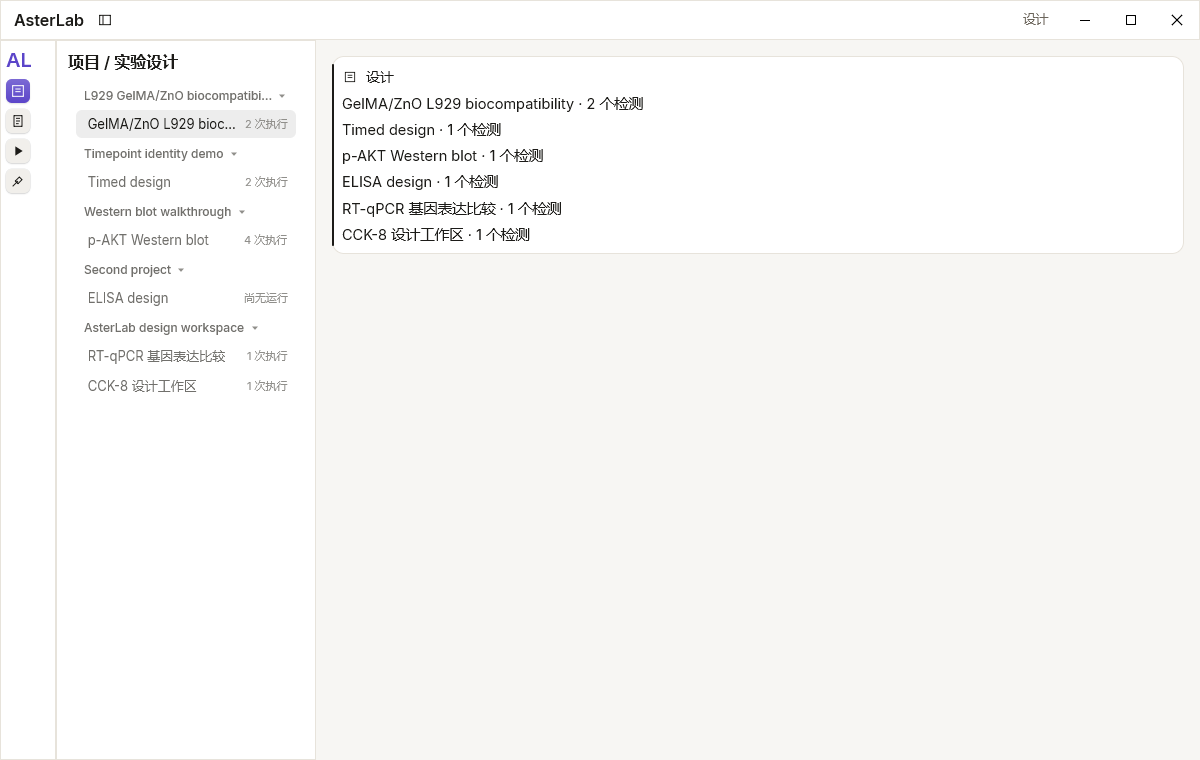
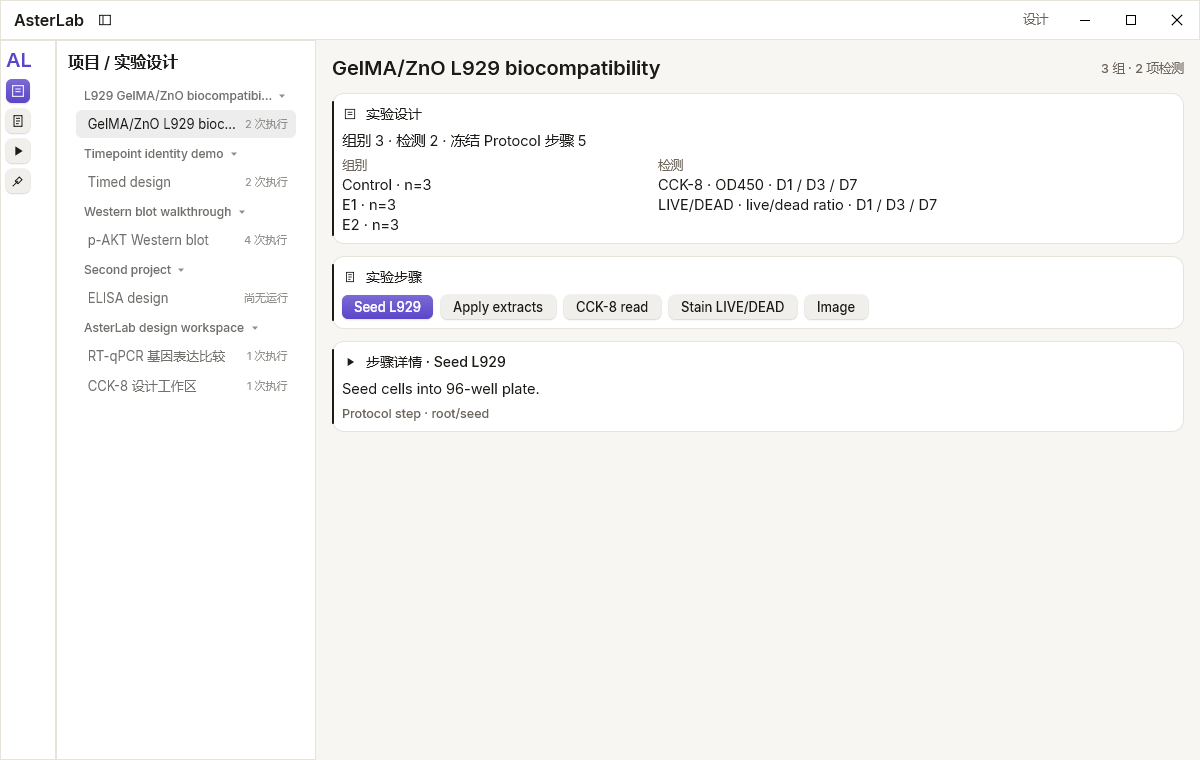
feat: design surface summary and step sequence

diff --git a/native/asterlab-run/src/main.rs b/native/asterlab-run/src/main.rs
@@ -49,7 +49,7 @@ enum Page { Design, Protocol, Run, Tools }
 struct App {
     run_id: String, workspace: Value, selected: usize, checks: HashMap<String, String>,
     rows: Vec<Row>, results: bool, message: String,
-    page: Page, sidebar_open: bool,
+    page: Page, sidebar_open: bool, design_step: usize,
     projects: Vec<Value>, designs: Vec<Value>, runs: Vec<Value>, protocols: Vec<Value>, records: Vec<Value>,
 }
 fn init() -> App {
@@ -67,7 +67,7 @@ fn init() -> App {
     };
     let workspace = match result {
         Ok(w) => w,
-        Err(e) => return App { run_id: String::new(), workspace: Value::Null, selected: 0, checks: HashMap::new(), rows: Vec::new(), results: false, message: format!("无法读取 Run（id={env_id:?}）：{e}"), page: Page::Run, sidebar_open: true, projects: Vec::new(), designs: Vec::new(), runs: Vec::new(), protocols: Vec::new(), records: Vec::new() },
+        Err(e) => return App { run_id: String::new(), workspace: Value::Null, selected: 0, checks: HashMap::new(), rows: Vec::new(), results: false, message: format!("无法读取 Run（id={env_id:?}）：{e}"), page: Page::Run, sidebar_open: true, design_step: 0, projects: Vec::new(), designs: Vec::new(), runs: Vec::new(), protocols: Vec::new(), records: Vec::new() },
     };
     let projects = call("project.list", json!({})).ok().and_then(|x| x["records"].as_array().cloned()).unwrap_or_default();
     let designs = call("design.list", json!({})).ok().and_then(|x| x["records"].as_array().cloned()).unwrap_or_default();
@@ -77,7 +77,7 @@ fn init() -> App {
     let mut records = call("record.list", json!({"kind":"formula"})).ok().and_then(|x| x["records"].as_array().cloned()).unwrap_or_default();
     records.extend(call("record.list", json!({"kind":"library_table"})).ok().and_then(|x| x["records"].as_array().cloned()).unwrap_or_default());
     records.extend(call("record.list", json!({"kind":"note"})).ok().and_then(|x| x["records"].as_array().cloned()).unwrap_or_default());
-    let mut a = App { run_id, workspace, selected: 0, checks: HashMap::new(), rows: Vec::new(), results: false, message: String::new(), page: Page::Run, sidebar_open: true, projects, designs, runs, protocols, records };
+    let mut a = App { run_id, workspace, selected: 0, checks: HashMap::new(), rows: Vec::new(), results: false, message: String::new(), page: Page::Run, sidebar_open: true, design_step: 0, projects, designs, runs, protocols, records };
     a.selected = a.first_open();
     a.reset_rows();
     if let Ok(pg) = std::env::var("ASTERLAB_PAGE") {
@@ -327,14 +327,56 @@ fn view(a: &App, cx: &mut Cx<App>) -> El {
                 .child(right.build(&k).fill(t.card).border(1.0, t.card_border).radius(12.0).w(240.0).min_w(240.0)));
         }
     } else if page == Page::Design {
-        let mut c = Card::new().title("设计", Some(&I_DESIGN));
-        if a.designs.is_empty() { c = c.child(text("暂无设计").font(BODY).color(t.text_secondary)); }
-        for d in &a.designs {
-            let name = d["data"]["title"].as_str().unwrap_or("未命名设计");
-            let n = d["data"]["assays"].as_array().map(|x| x.len()).unwrap_or(0);
-            c = c.child(text(format!("{name} · {n} 个检测")).font(BODY).color(t.text).wrap());
+        let design = &a.workspace["frozen_design"]["content"];
+        let dname = design["title"].as_str().unwrap_or("实验设计");
+        let groups = arr(design, "groups").len();
+        let assays = arr(design, "assays").len();
+        let steps = arr(&a.workspace, "steps");
+        let sel = a.design_step.min(steps.len().saturating_sub(1));
+        content = content.child(row().w_full().items_center().gap(space::S3)
+            .child(text(dname.to_owned()).font(TITLE).color(t.text).wrap())
+            .child(el().grow(1.0))
+            .child(text(format!("{groups} 组 · {assays} 项检测")).font(LABEL).color(t.text_secondary)));
+        let mut summary = Card::new().title("实验设计", Some(&I_DESIGN));
+        summary = summary.child(text(format!("组别 {groups} · 检测 {assays} · 冻结 Protocol 步骤 {}", steps.len())).font(BODY).color(t.text));
+        let mut group_col = col().gap(2.0).w(300.0).child(text("组别").font(LABEL).color(t.text_secondary));
+        for g in arr(design, "groups") {
+            group_col = group_col.child(text(format!("{} · n={}", g["name"].as_str().unwrap_or("组"), g["independent_n"].as_i64().unwrap_or(0))).font(BODY).color(t.text).wrap());
         }
-        content = content.child(c.build(&k).fill(t.card).border(1.0, t.card_border).radius(12.0));
+        let mut assay_col = col().gap(2.0).w(420.0).child(text("检测").font(LABEL).color(t.text_secondary));
+        for a in arr(design, "assays") {
+            let tps = a["timepoints"].as_array().map(|x| x.iter().filter_map(|y| y.as_str()).collect::<Vec<_>>().join(" / ")).unwrap_or_default();
+            assay_col = assay_col.child(text(format!("{} · {} · {}", a["title"].as_str().unwrap_or("检测"), a["endpoint"].as_str().unwrap_or(""), tps)).font(BODY).color(t.text).wrap());
+        }
+        summary = summary.child(row().w_full().gap(16.0).items_start().child(group_col).child(assay_col));
+        content = content.child(summary.build(&k).fill(t.card).border(1.0, t.card_border).radius(12.0));
+        let mut flow = Card::new().title("实验步骤", Some(&I_PROTOCOL));
+        let mut flow_row = row().w_full().gap(space::S2).wrap();
+        for (i, st) in steps.iter().enumerate() {
+            let step = &st["step"];
+            let title = step["title"].as_str().unwrap_or("步骤");
+            let active = i == sel;
+            let idx = i;
+            flow_row = flow_row.child(Button::new(title)
+                .variant(if active { ButtonVariant::Submit } else { ButtonVariant::Neutral })
+                .on_press(move |x: &mut App| x.design_step = idx)
+                .build(&k));
+        }
+        flow = flow.child(flow_row);
+        content = content.child(flow.build(&k).fill(t.card).border(1.0, t.card_border).radius(12.0));
+        if let Some(st) = steps.get(sel) {
+            let step = &st["step"];
+            let title = step["title"].as_str().unwrap_or("步骤");
+            let instruction = step["instruction"].as_str().unwrap_or("");
+            let path = step["path"].as_str().unwrap_or("");
+            let mut detail = Card::new().title(format!("步骤详情 · {title}"), Some(&I_RUN));
+            detail = detail.child(text(instruction).w_full().wrap().font(BODY).color(t.text));
+            detail = detail.child(text(format!("Protocol step · {path}")).font(LABEL).color(t.text_secondary));
+            for c in arr(step, "checks") {
+                detail = detail.child(text(format!("检查 · {} ({})", c["label"].as_str().unwrap_or("检查"), if c["blocking"].as_bool()==Some(true){"必需"}else{"可选"})).font(LABEL).color(t.text_secondary));
+            }
+            content = content.child(detail.build(&k).fill(t.card).border(1.0, t.card_border).radius(12.0));
+        }
     } else if page == Page::Protocol {
         let mut c = Card::new().title("Protocol", Some(&I_PROTOCOL));
         if a.protocols.is_empty() { c = c.child(text("暂无 Protocol").font(BODY).color(t.text_secondary)); }

diff --git a/docs/design/RUNE_SURFACE_MIGRATION.md b/docs/design/RUNE_SURFACE_MIGRATION.md
@@ -4,10 +4,10 @@ Status: **four surfaces visible; Run is the only writable surface.**
 
 | Surface | Current Rune state | Not yet |
 |---|---|---|
-| 实验设计 | read-only design list (title, assay count) | four-step editor, matrix, inspector |
+| 实验设计 | design summary, group/assay summary, step sequence, step detail | four-step editor, matrix editing |
 | Protocol | read-only protocol list (title, revision) | block tree, parameters, version editing |
 | 实验运行 | writable Run slice (task/check/measurement/results) | full parity, restart verification |
-| 资料与工具 | read-only record list (formula/table/note) | resources, calculators, instruments |
+| 资料与工具 | read-only formula/table/note list | resources, calculators, instruments |
 
 Shell:
 
